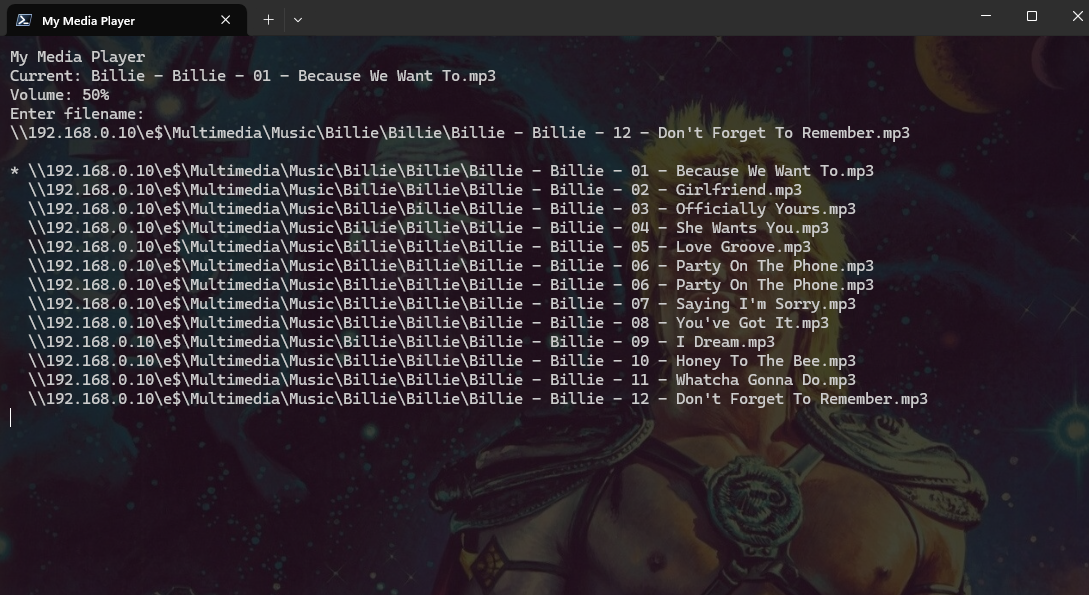
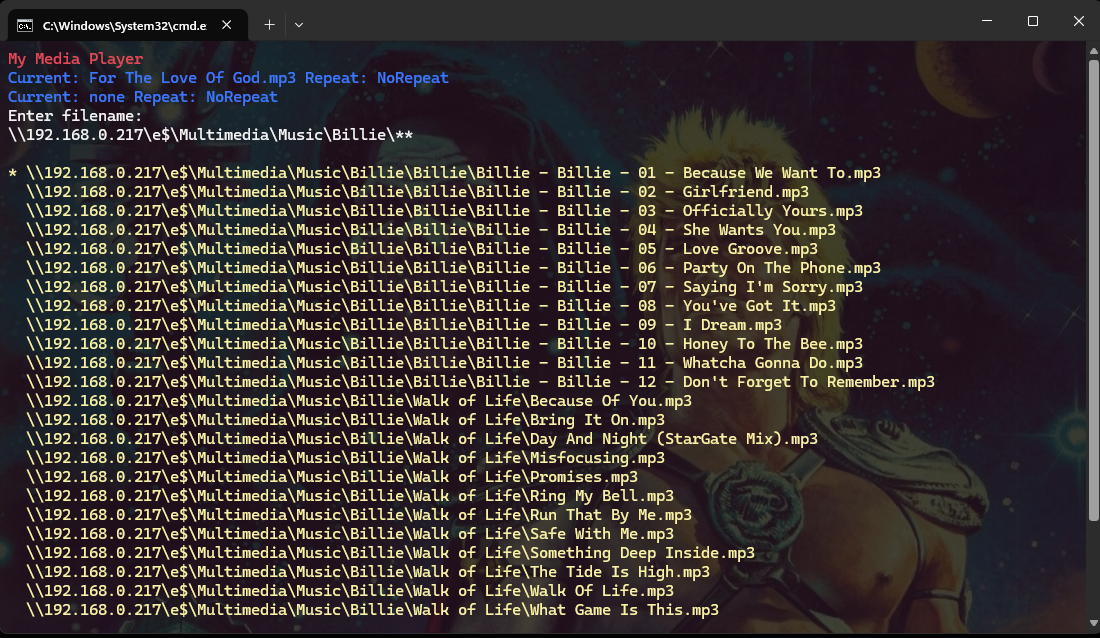
Update readme and screenshot

diff --git a/readme.md b/readme.md
@@ -25,18 +25,92 @@ $ dotnet build
 
 ```mmp```
 
+`up arrow` - volume up
+
+`down arrow` - volume down
+
+`1` - previous track
+
+`2` - next track
+
 `a` - add new track (maintain playlist), supports tab completion
 
 `n` - add new track (clear playlist), supports tab completion
 
 `space` - pause / unpause
 
+`r` - repeat mode (repeat none -> repeat track -> repeat playlist)
+
 `s` - stop playback
 
 `p` - begin playback
 
+`v` - show playlist
+
+Keys can be rebound by editing appsettings.json
+
+When adding tracks (via `a` or `n`) if the path ends in * then all tracks in the directory are added. If the path ends in ** then all tracks in the directory and all sub-directories are added.
+
+#
+
+Example screenshot
+
 ![screenshot showing output](resources/screenshot.png)
 
+## Configuration
+
+Configuration values are stored in appsettings.json
+
+Keys can be rebound to values from the [ConsoleKey enum ](https://learn.microsoft.com/en-us/dotnet/api/system.consolekey?view=net-8.0)
+  `Play` - begin  playback
+
+  `Stop` - stop playback
+
+  `NewSong` - add new track (clear playlist)
+
+  `AddPlaylist` - add new track (maintain playlist)
+
+  `ShowPlayList` - show playlist
+
+  `VolumeUp` - volume up
+
+  `VolumeDown` - volume down
+
+  `TrackNext` - next track
+
+  `TrackPrev` - previous track
+
+  `PlayPause` - pause / unpause
+
+  `Repeat` - repeat mode
+
+Colours can be customized. Colours are .NET colour types mapped to ConsoleColour types. Invalid colours are mapped as black.
+```
+  "TitleForegroundColour": "Red",
+  "TitleBackgroundColour": "Black",
+  "CurrentTextForegroundColour": "White",
+  "CurrentTextBackgroundColour": "Black",
+  "CurrentSongForegroundColour": "Blue",
+  "CurrentSongBackgroundColour": "Black",
+  "VolumeTextForegroundColour": "White",
+  "VolumeTextBackgroundColour": "Black",
+  "VolumeForegroundColour": "Blue",
+  "VolumeBackgroundColour": "Black",
+  "TextForegroundColour": "White",
+  "TextBackgroundColour": "Black",
+  "PlaylistForegroundColour": "Yellow",
+  "PlaylistBackgroundColour": "Black",
+```
+
+The default starting volume can be adjusted:
+
+`"DefaultVolume": "0.5"`
+
+Multiple instances can be prevented:
+
+`"AllowMultipleInstances": true`
+
+Note: There is no interaction with any existing instance of the application, the only effect is that the additional instance exist automatically.
 
 ## Licencing
 
